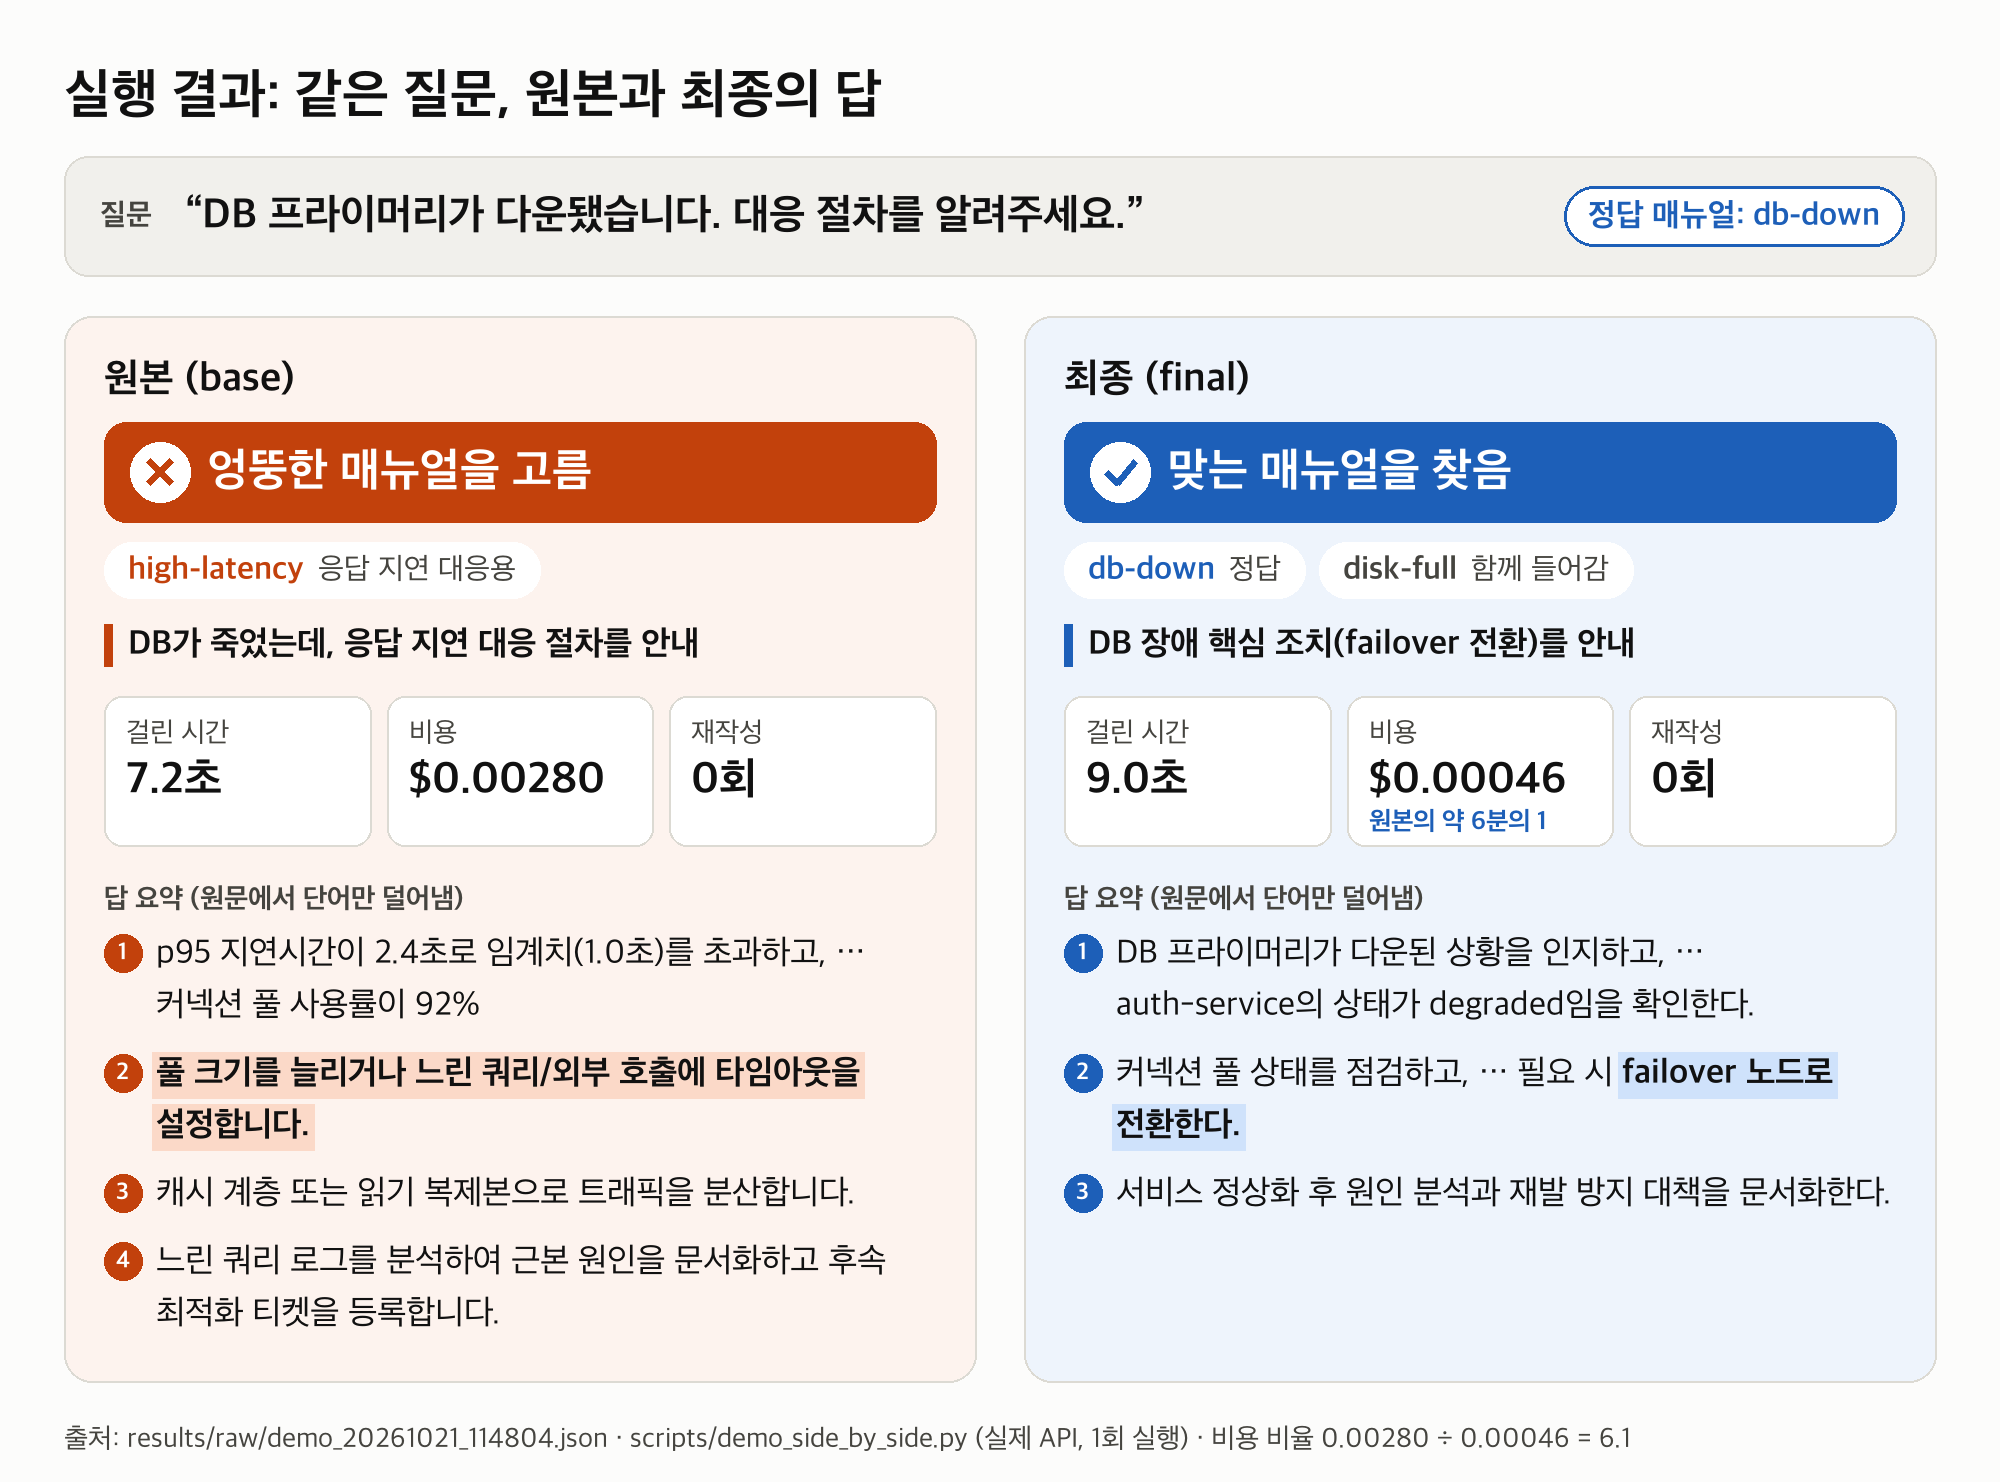
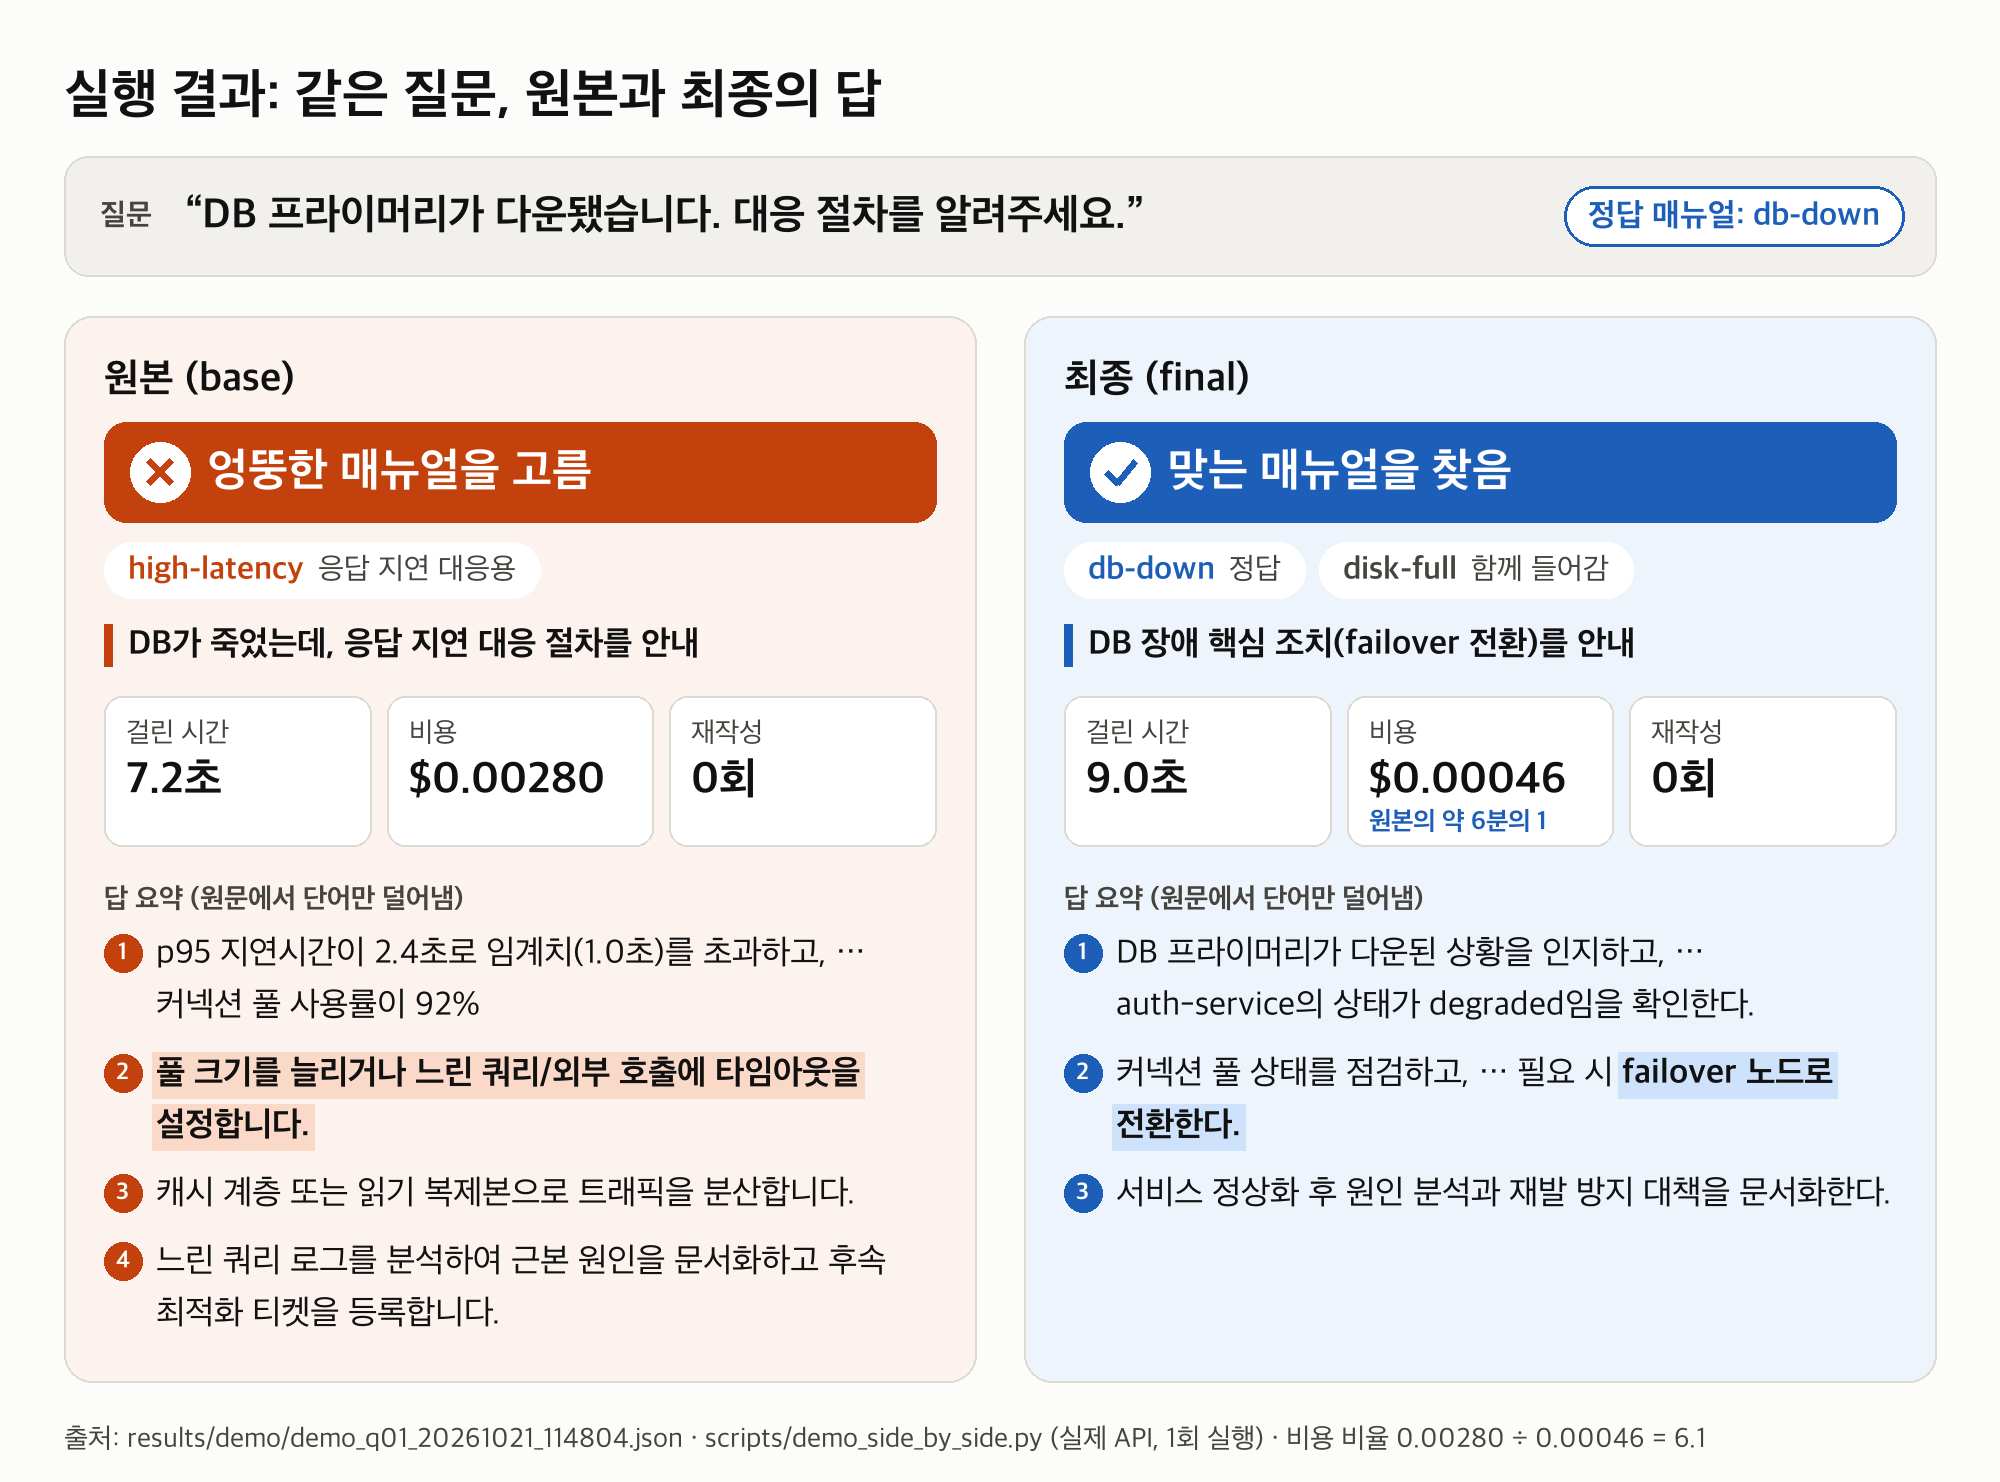
feat: 매뉴얼 없는 질문 시연 그림(fig11) 추가, 시연 그림 입력을 커밋된 경로로 고정
- demo_side_by_side 렌더러가 정답 매뉴얼이 없는 질문(Q19)에서 "엉뚱한 매뉴얼"로 잘못 표시하던 것을 고침
  (정답이 없으면 아무것도 넣지 않아야 정답, 질문별 한 줄 해석, 비율 소수 표기)
- 시연 JSON 2개를 results/demo/ 에 보관 (results/raw 는 git 제외라 그림 근거가 저장소에 없었음)

테스트: --render 로 Q01, Q19 재생성, fig10 은 출처 경로 외 동일, API 호출 0

Changed region(s): [[0.093, 0.9622, 0.837, 0.9933]]

diff --git a/scripts/demo_side_by_side.py b/scripts/demo_side_by_side.py
@@ -77,9 +77,13 @@ SUMMARY = {
 # 강조할 핵심 조치 (원문 그대로의 구절). 원문에 있을 때만 강조한다.
 KEY_PHRASE = {"base": "풀 크기를 늘리거나 느린 쿼리/외부 호출에 타임아웃을 설정합니다.",
               "final": "failover 노드로 전환한다."}
-# 한 줄 해석. 근거 구절이 원문 답에 있을 때만 붙인다.
-NOTE = {"base": ("타임아웃", "DB가 죽었는데, 응답 지연 대응 절차를 안내"),
-        "final": ("failover", "DB 장애 핵심 조치(failover 전환)를 안내")}
+# 한 줄 해석. 질문에 키워드가 있고, 근거 구절이 원문 답에 있을 때만 붙인다.
+NOTES = {
+    "DB 프라이머리": {"base": ("타임아웃", "DB가 죽었는데, 응답 지연 대응 절차를 안내"),
+                    "final": ("failover", "DB 장애 핵심 조치(failover 전환)를 안내")},
+    "PG사": {"base": ("타임아웃", "결제 API 장애인데, 응답 지연 대응 절차를 안내"),
+            "final": ("추가 정보", "맞는 매뉴얼이 없다고 알리고 추가 정보를 요청")},
+}
 
 
 def _font_path() -> str:
@@ -177,7 +181,8 @@ def render_png(D: dict, out: Path, src: str, left: str = "base", right: str = "f
     def column(d, key, name, x, y0, height=None, draw=True):
         r = D[key]
         fed = r["fed_runbooks"]
-        ok = bool(gold & set(fed))
+        # 정답 매뉴얼이 없는 질문은 아무것도 넣지 않아야 맞다
+        ok = bool(gold & set(fed)) if gold else not fed
         dark, light, hl = THEME[ok]
         if draw and height:
             d.rounded_rectangle([x, y0, x + CW, y0 + height], radius=28, fill=light, outline=LINE, width=2)
@@ -190,7 +195,9 @@ def render_png(D: dict, out: Path, src: str, left: str = "base", right: str = "f
         if draw:
             d.rounded_rectangle([ix, y, ix + iw, y + bh], radius=22, fill=dark)
             draw_icon(d, ix + 56, y + bh / 2, 30, ok, dark)
-            d.text((ix + 104, y + bh / 2), "맞는 매뉴얼을 찾음" if ok else "엉뚱한 매뉴얼을 고름",
+            verdict = (("맞는 매뉴얼을 찾음" if ok else "엉뚱한 매뉴얼을 고름") if gold
+                       else ("매뉴얼 없음을 알림" if ok else "상관없는 매뉴얼을 넣음"))
+            d.text((ix + 104, y + bh / 2), verdict,
                    font=F(46, True), fill="white", anchor="lm")
         y += bh + 20
         # 고른 매뉴얼 칩 (매뉴얼 제목은 context 에서 읽음)
@@ -207,7 +214,7 @@ def render_png(D: dict, out: Path, src: str, left: str = "base", right: str = "f
             cx += w + 14
         y += 56 + 22
         # 한 줄 해석
-        note = NOTE.get(key)
+        note = next((v.get(key) for k, v in NOTES.items() if k in D.get("query", "")), None)
         if note and note[0] in r["answer"]:
             if draw:
                 d.rectangle([ix, y + 4, ix + 8, y + 46], fill=dark)
@@ -219,8 +226,9 @@ def render_png(D: dict, out: Path, src: str, left: str = "base", right: str = "f
                  ("비용", f"${r['cost_usd']:.5f}", None),
                  ("재작성", f"{r['rewrites']}회", None)]
         if key == right and cost[left] > 0 and cost[right] < cost[left]:
-            frac = round(cost[left] / cost[right])
-            if frac >= 2:
+            ratio = cost[left] / cost[right]
+            frac = f"{round(ratio)}" if abs(ratio - round(ratio)) < 0.15 else f"{ratio:.1f}"
+            if ratio >= 2:
                 stats[1] = (stats[1][0], stats[1][1], f"원본의 약 {frac}분의 1")
         sh = 150
         for i, (lab, val, tag) in enumerate(stats):
@@ -285,8 +293,8 @@ def render_png(D: dict, out: Path, src: str, left: str = "base", right: str = "f
     d.rounded_rectangle([M, top_q, W - M, top_q + qh], radius=24, fill="#f1f0ec", outline=LINE, width=2)
     d.text((M + 36, top_q + qh / 2), "질문", font=F(30, True), fill=INK2, anchor="lm")
     d.text((M + 120, top_q + qh / 2), f"“{D['query']}”", font=F(42, True), fill=INK, anchor="lm")
-    if gold:
-        g = "정답 매뉴얼: " + ", ".join(D["gold"])
+    if "gold" in D:
+        g = ("정답 매뉴얼: " + ", ".join(D["gold"])) if gold else "정답: 맞는 매뉴얼 없음"
         gw = text_w(g, F(32, True)) + 48
         gx = W - M - 32 - gw
         d.rounded_rectangle([gx, top_q + qh / 2 - 30, gx + gw, top_q + qh / 2 + 30], radius=30,

diff --git a/scripts/make_figs.py b/scripts/make_figs.py
@@ -223,12 +223,13 @@ fig.tight_layout()
 fig.savefig(OUT / "fig9_judge.png", dpi=180)
 plt.close(fig)
 
-# 10. 실행 결과 화면 — 같은 질문에 원본과 최종이 낸 답 (results/raw/demo_*.json, 실제 API 1회 실행 기록)
+# 10·11. 실행 결과 화면 — 같은 질문에 원본과 최종이 낸 답 (results/demo/*.json, 실제 API 1회 실행 기록)
 # 그리는 코드는 scripts/demo_side_by_side.py 의 render_png 하나뿐이다 (--render 로도 같은 그림).
 sys.path.insert(0, str(ROOT / "scripts"))
 from demo_side_by_side import render_png  # noqa: E402
-# 가장 최근 파일이 아니라 README 그림의 근거로 고정한 실행 기록을 쓴다 (이후 시연 리허설 기록이 그림을 바꾸지 않도록)
-demo_path = R / "raw" / "demo_20261021_114804.json"
-render_png(json.loads(demo_path.read_text()), OUT / "fig10_demo.png", demo_path.relative_to(ROOT).as_posix())
+# 입력은 커밋된 고정 경로 (results/raw 는 git 에 없고, 리허설 기록이 덮어쓰면 안 된다)
+for demo_path, fig in ((R / "demo" / "demo_q01_20261021_114804.json", "fig10_demo.png"),
+                       (R / "demo" / "demo_q19_20261022_134437.json", "fig11_demo_noRunbook.png")):
+    render_png(json.loads(demo_path.read_text()), OUT / fig, demo_path.relative_to(ROOT).as_posix())
 
 print("wrote", sorted(p.name for p in OUT.glob("*.png")))
